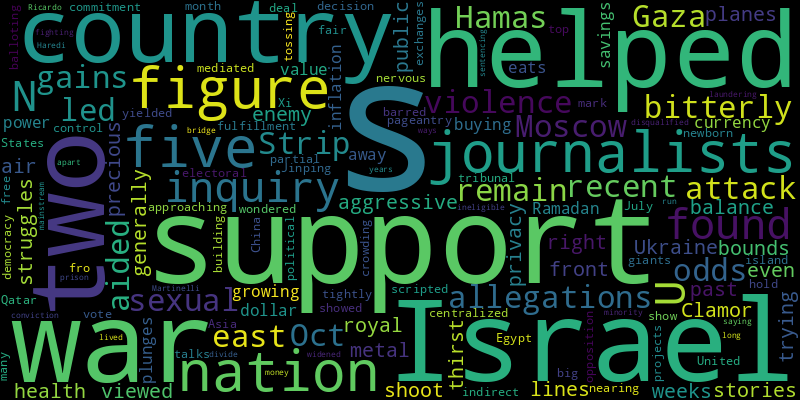
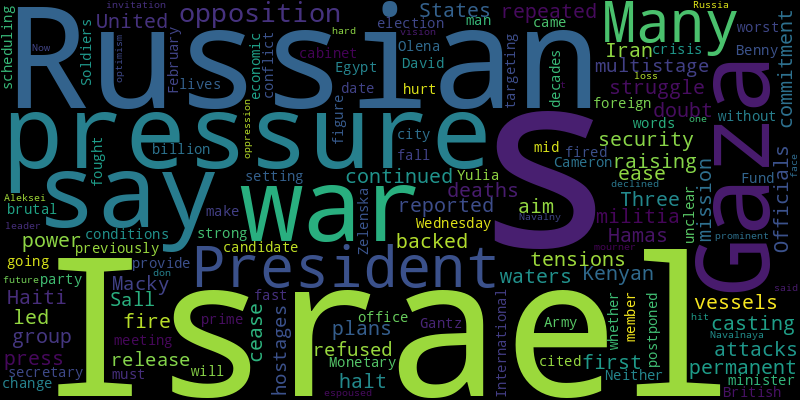
chore(bot): 👻 auto commit

diff --git a/README.md b/README.md
@@ -2,41 +2,41 @@
 Auto RSS New York Times and Generate Word Cloud
 
 ## New York Times Global News
-* A U.N. inquiry found support for Israel’s allegations of sexual violence in the Hamas-led Oct. 7 attack, but they remain bitterly at odds over the war in the Gaza Strip.
-* Moscow’s recent gains in the east have been aided by more aggressive air support on the front lines. But that also has helped Ukraine shoot down enemy planes in the past two weeks.
-* In a country where the health struggles of even public figures are generally viewed as out of bounds, journalists are trying to balance the right to privacy with a thirst for royal stories.
-* Clamor for the precious metal is growing as the buying power of the country’s currency plunges in value against the dollar, and inflation eats away at savings.
-* With Ramadan approaching and the war nearing the five-month mark, indirect talks mediated by Egypt and Qatar have not yielded a deal.
-* The decision to hold a vote on July 28 is a partial fulfillment of a commitment to the United States, but with the top opposition figure barred, many wondered how free and fair the balloting would be.
-* At China’s big political show, nervous exchanges with journalists and the tightly scripted pageantry showed how Xi Jinping has centralized control.
-* Asia’s two giants are crowding the island nation with building projects, tossing its newborn democracy to and fro.
-* The electoral tribunal disqualified Ricardo Martinelli, saying he was ineligible to run because of his conviction for money laundering and sentencing to more than five years in prison.
-* Israel’s Haredi minority has long lived apart from the nation’s mainstream, but fighting has both widened that divide and in some ways helped to bridge it.
+* The power struggle in Haiti is raising pressure on the United States to ease tensions while casting doubt on plans for a Kenyan-led security mission.
+* Three deaths were reported, the first in the Iran-backed militia’s repeated attacks on vessels in the same waters, which the group says aim to pressure Israel to halt the war in Gaza.
+* Officials say Hamas has continued to press Israel for a commitment to a permanent cease-fire after a multistage release of all hostages, but Israel has refused.
+* President Macky Sall previously postponed the election without setting a date. On Wednesday, he also fired the prime minister, his party’s candidate for president.
+* After meeting with Benny Gantz, a member of Israel’s war cabinet, the British foreign secretary, David Cameron, had strong words about conditions in Gaza that “must change.”
+* The International Monetary Fund will provide $8 billion to Egypt, which is going through its worst economic crisis in decades.
+* The fall of the city, when it came in mid-February, was brutal and fast. Soldiers fought for their lives. Many did not make it.
+* Neither man was hurt, and it was unclear whether the Russian Army was targeting them.
+* Olena Zelenska’s office cited a scheduling conflict. The Russian opposition figure Yulia Navalnaya also declined an invitation.
+* The loss of the optimism in the face of oppression espoused by Aleksei Navalny, Russia’s most prominent opposition leader, has hit many Russians hard. Now, as one mourner said, “I don’t have any vision of the future.”
 
 ![Global](./global.png)
 ## New York Times United States News
-* Harvard said it has been acting in good faith and submitted nearly 1,500 pages of new material.
-* The school joins Yale, Dartmouth and M.I.T. in backtracking on “test optional” policies adopted during the pandemic.
-* On Tuesday, the historic 13-2 vote by the men’s basketball team to unionize took a significant step toward classifying student-athletes as employees.
-* Illegal crossings have dropped in the last month, but the migrant crisis still defines life on the border, where many are skeptical that Biden or Trump can help.
-* Gov. Jeff Landry is enacting stringent new measures that he says are crucial to address crime; critics say the laws resemble failed policies of the past.
+* A Southern Baptist Convention leader said federal investigators had informed the executive committee that there would be no charges against it.
+* The Republican attorney general succeeded in defeating some politicians and judges who opposed him. But Democrats showed they also know how to punish incumbents.
+* The ruling, by a judge in Texas, was the latest in a string of court decisions that have eroded or struck down federal affirmative-action mandates in a variety of arenas.
 * Fritch has endured tornadoes and wildfires over the years, and a fire now burning through the Panhandle struck dozens of homes. On Tuesday, the fire chief died fighting a house fire.
-* Mr. Robinson formally entered politics in 2019, when he began his run for lieutenant governor. He has since earned a reputation as a fiery outsider eager to dive into the culture war.
-* The speech, which will be edited up until the president delivers it, will be watched by one of his biggest audiences before the November election.
-* The presidential candidates weren’t the only ones on the ballot.
-* Donald Trump racked up delegates, but also revealed weaknesses. Nikki Haley reckoned with cold, hard math. And restive Democrats sent a message to President Biden.
+* The 46-year-old probe, which flew by Jupiter and Saturn in its youth and inspired earthlings with images of the planet as a “Pale Blue Dot,” hasn’t sent usable data from interstellar space in months.
+* Among the attendees will be the prime minister of Sweden and women who were denied an abortion and in vitro fertilization.
+* Mainstream Democratic lawmakers want the president to speak out more forcefully for the policies that his administration has embraced, including a cease-fire.
+* What campaign themes will he lay out? How directly will he attack Donald Trump? Will he say the word abortion?
+* Allies are pushing the president to do more to sell skeptical voters on his economic record and to attack his likely Republican rival on tax policy.
+* His teenage son pleaded guilty to murder. His wife was convicted of manslaughter. Now the man who bought the gun that his son used to kill four high school students will face a jury.
 
 ![US](./usnews.png)
 ## New York Times Asia News
+* Beijing is set to further increase its manufacturing and installation of solar panels as it seeks to master global markets and wean itself from imports.
+* Linwei Ding, a Chinese national, was arrested in California and accused of uploading hundreds of files to the cloud.
+* Temu, Shein, and streaming and gaming apps looking to break into the U.S. market are spending huge sums to get their wares in front of American consumers.
+* Also, Israel-Hamas talks stall before Ramadan.
+* The disappearance of the Malaysia Airlines flight has remained one of the greatest aviation mysteries of all time. A new search may begin soon.
 * Once a year, the premier held a news conference, explaining the economy and giving Chinese a taste of political participation. That has come to an end.
 * Also, China’s ambitious growth goal and this year’s winner of the Pritzker Prize.
 * At China’s big political show, nervous exchanges with journalists and the tightly scripted pageantry showed how Xi Jinping has centralized control.
 * At the National People’s Congress on Tuesday, China’s leaders set an ambitious goal for growth, exactly the same one as last year.
 * Asia’s two giants are crowding the island nation with building projects, tossing its newborn democracy to and fro.
-* The country is defending paying the pop star to play nowhere else in Southeast Asia. Thailand’s prime minister said the price was up to $3 million per show.
-* Premier Li Qiang targets growth of about 5 percent this year but signals continued reluctance to use deficit spending for economic stimulus.
-* Also, France protects abortion rights and a U.N. report on sexual assault during the Oct. 7 attack.
-* Experts say the country’s first lawsuit about police discrimination against foreign-born residents highlights a systematic problem.
-* The decision is a break from a decades-long tradition by the country’s No. 2 official and comes as Xi Jinping, the top leader, consolidates his power.
 
 ![Asian](./asian.png)
